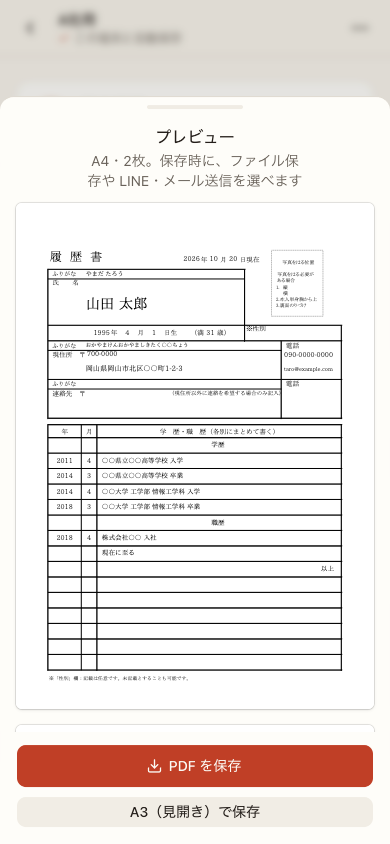
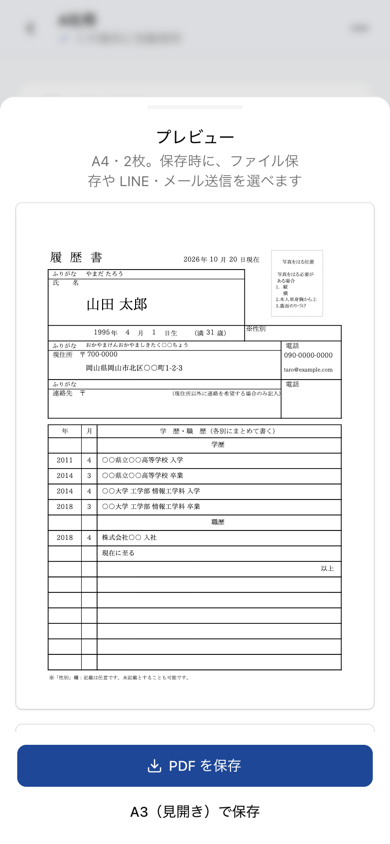
Bring back the light theme from before the paper colors
The app returns to the light theme it had alongside dark mode: a
light gray background, near-black text and a blue accent. Dark mode
stays off. The app icon, theme color and manifest use the same blue
and background again, and the share image, landing page screenshots
and README screenshots are retaken in these colors.

diff --git a/web/src/app/globals.css b/web/src/app/globals.css
@@ -51,27 +51,27 @@
   --radius-4xl: calc(var(--radius) * 2.6);
 }
 
-/* 色は1つだけ。紙の生成り、墨、印鑑の朱で、書類らしい見た目にする（文字のコントラスト比はどれも 4.5 以上） */
+/* 色は、ダークモードがあったころのライトモードと同じ（明るいグレーの背景に青のアクセント）。ダークモードは使わない */
 :root {
   color-scheme: light;
-  --background: oklch(0.968 0.012 85); /* 生成り #f8f4ec */
-  --foreground: oklch(0.24 0.012 60); /* 墨 #241e1a */
-  --card: oklch(0.993 0.005 85);
-  --card-foreground: oklch(0.24 0.012 60);
-  --popover: oklch(0.993 0.005 85);
-  --popover-foreground: oklch(0.24 0.012 60);
-  --primary: oklch(0.55 0.17 33); /* 朱 #c03f26 */
-  --primary-foreground: oklch(0.985 0.008 85);
-  --secondary: oklch(0.945 0.012 85);
-  --secondary-foreground: oklch(0.24 0.012 60);
-  --muted: oklch(0.945 0.012 85);
-  --muted-foreground: oklch(0.5 0.016 70);
-  --accent: oklch(0.94 0.02 60);
-  --accent-foreground: oklch(0.24 0.012 60);
-  --destructive: oklch(0.5 0.19 22); /* 朱と見分けられるよう、青みの強い赤にする */
-  --border: oklch(0.89 0.013 80);
-  --input: oklch(0.84 0.015 75);
-  --ring: oklch(0.55 0.17 33);
+  --background: oklch(0.975 0.003 260);
+  --foreground: oklch(0.145 0 0);
+  --card: oklch(1 0 0);
+  --card-foreground: oklch(0.145 0 0);
+  --popover: oklch(1 0 0);
+  --popover-foreground: oklch(0.145 0 0);
+  --primary: oklch(0.42 0.14 262);
+  --primary-foreground: oklch(0.985 0 0);
+  --secondary: oklch(0.97 0 0);
+  --secondary-foreground: oklch(0.205 0 0);
+  --muted: oklch(0.97 0 0);
+  --muted-foreground: oklch(0.556 0 0);
+  --accent: oklch(0.97 0 0);
+  --accent-foreground: oklch(0.205 0 0);
+  --destructive: oklch(0.577 0.245 27.325);
+  --border: oklch(0.922 0 0);
+  --input: oklch(0.922 0 0);
+  --ring: oklch(0.708 0 0);
   --chart-1: oklch(0.87 0 0);
   --chart-2: oklch(0.556 0 0);
   --chart-3: oklch(0.439 0 0);

diff --git a/web/src/app/page.tsx b/web/src/app/page.tsx
@@ -149,7 +149,7 @@ export default function Page() {
               <ItemGroup className="mt-8 gap-7">
                 {STEPS.map(({ title, text }, i) => (
                   <Item key={title} role="listitem" className="items-start gap-3 p-0">
-                    {/* 印鑑のような朱の丸で順番を示す */}
+                    {/* 丸で順番を示す */}
                     <ItemMedia className="size-9 rounded-full border-[1.5px] border-primary text-base font-semibold text-primary group-has-data-[slot=item-description]/item:translate-y-0">
                       {i + 1}
                     </ItemMedia>

diff --git a/web/src/app/manifest.ts b/web/src/app/manifest.ts
@@ -13,8 +13,8 @@ export default function manifest(): MetadataRoute.Manifest {
     start_url: "/app/", // 毎日使う人は説明のページを通らず一覧から始める
     scope: "/", // 編集ページもアプリの中で開く（省くと /app/ の下だけになる）
     display: "standalone",
-    background_color: "#f8f4ec",
-    theme_color: "#f8f4ec",
+    background_color: "#f6f7f9",
+    theme_color: "#f6f7f9",
     icons: [{ src: "/icon.svg", sizes: "any", type: "image/svg+xml" }],
   };
 }

diff --git a/web/src/app/layout.tsx b/web/src/app/layout.tsx
@@ -14,7 +14,7 @@ export const metadata: Metadata = {
 
 export const viewport: Viewport = {
   viewportFit: "cover", // iPhone のホームバーを避けて操作バーを置く
-  themeColor: "#f8f4ec", // 背景の生成りと同じ色
+  themeColor: "#f6f7f9", // 背景と同じ色
   colorScheme: "light", // ダークモードは使わない（端末がダークでも明るく出す）
 };
 
